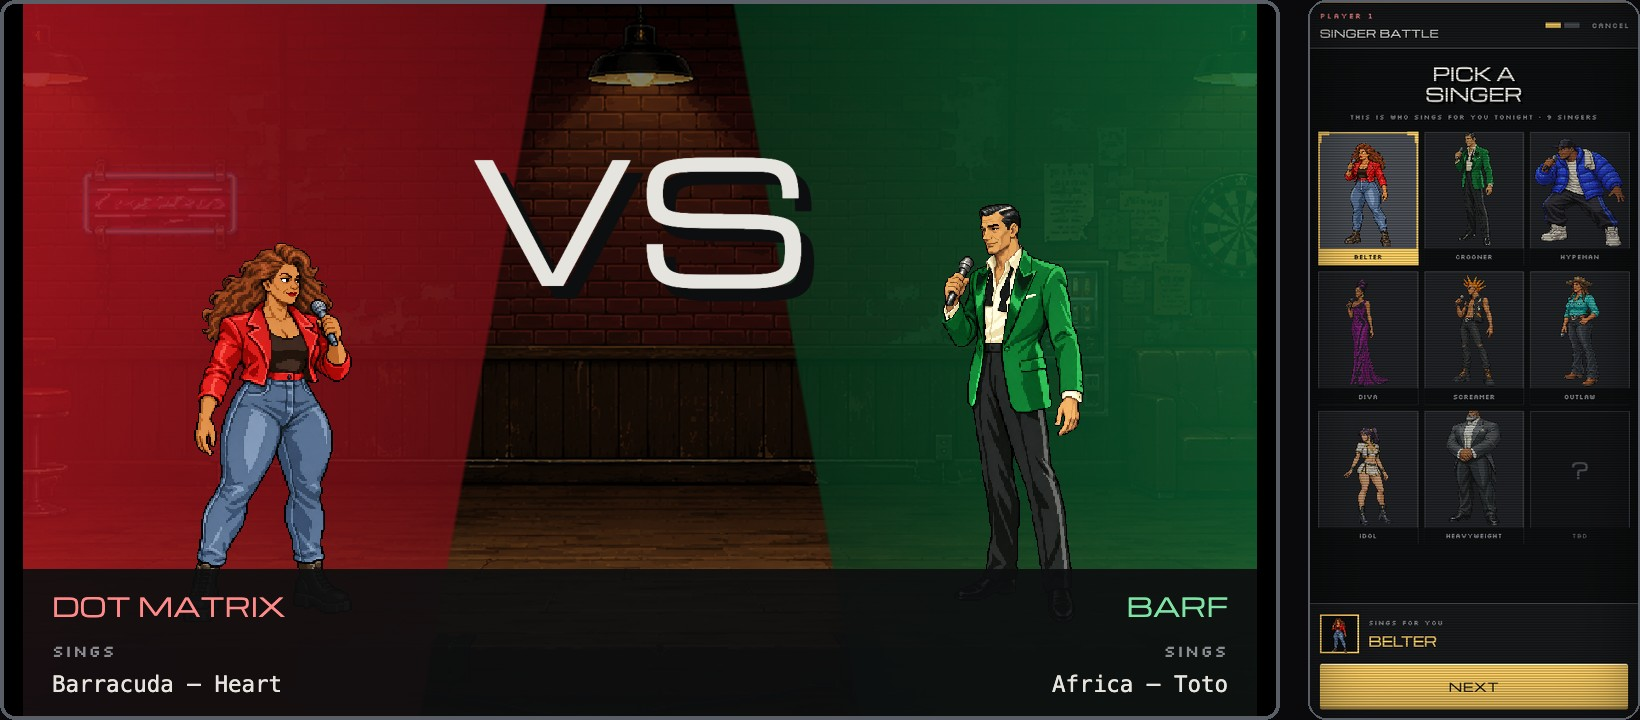
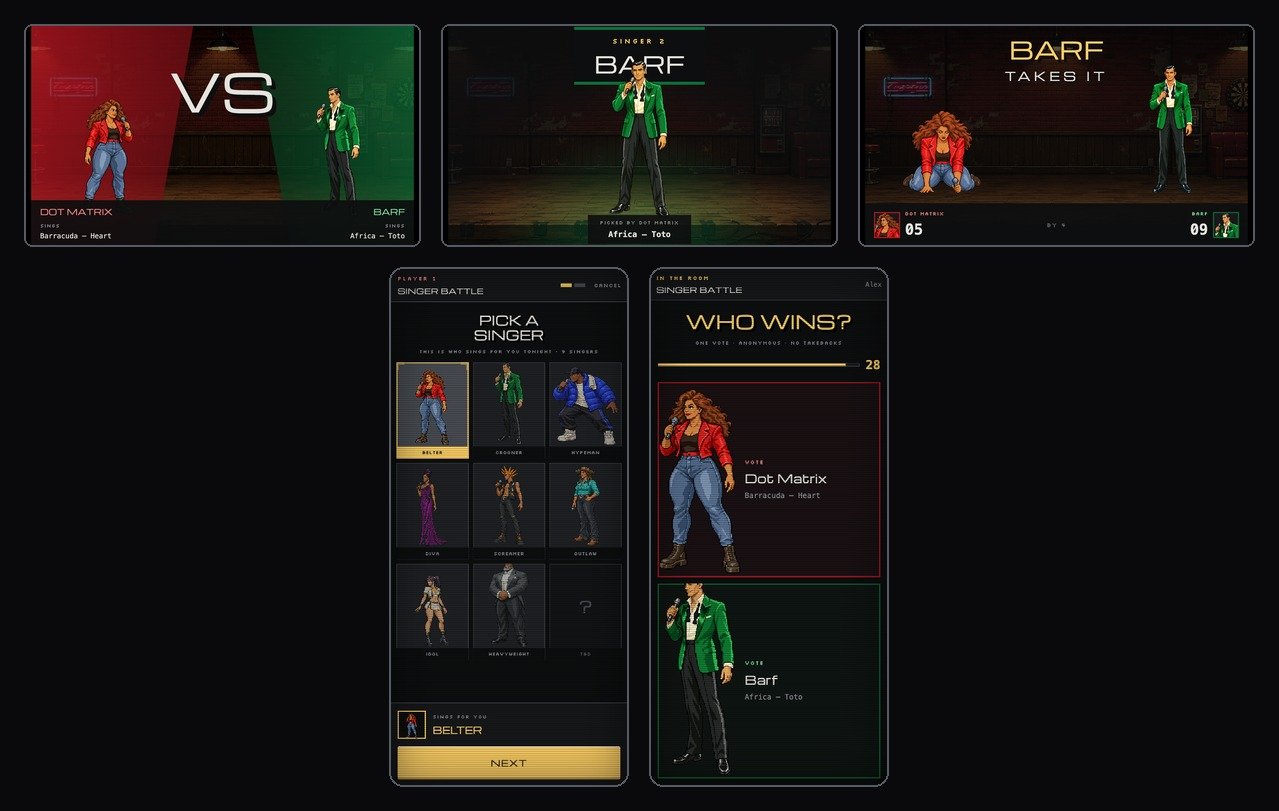
docs(readme): a screenshot set per kind of turn, and key change in the table
The front page carried one composite of the karaoke app and nothing else, so
two of the three kinds of turn were described but never shown.

Each section now has its own set, shot off the real screens. Karaoke is the
four phone screens a guest actually uses — library, queue, the Me tab, the
account page with its history. Trivia is the question and the final board, on
the TV and on a phone. Singer Battle is the VS slam, an intro and the verdict
across the top, with the fighter select and the room's ballot under it.

The karaoke set has no TV frame. Everyone knows what a lyric screen looks
like, and the one screen this page does not need to spend space on is the one
every karaoke product on earth already shows.

Change key is in the comparison table now, as a difference rather than a row
of matching ticks: ±6 semitones without touching tempo, remembered per singer,
and it arrived in this fork rather than upstream.

Three harness changes behind the art. A trivia scene for the final scoreboard,
on the TV and on the phone, since a round ends on the board rather than on a
question. The ballot scene's two fighters are somebody other than the signed-in
viewer — fighters get no ballot, so shooting it while signed in as the
challenger produced an empty screen. And .claude/launch.json's dev-test entry
resolves its data path relative rather than through $PWD, which is empty in
the environment the preview server starts in and sent it looking for
/.test-data.

diff --git a/src/components/App/Routes/Preview.tsx b/src/components/App/Routes/Preview.tsx
@@ -7,9 +7,9 @@ import PlayerBattle from 'routes/Player/components/PlayerBattle/PlayerBattle'
 import PlayerTrivia from 'routes/Player/components/PlayerTrivia/PlayerTrivia'
 import * as battleFixtures from 'lib/battleFixtures'
 import * as triviaFixtures from 'lib/triviaFixtures'
-import type { BattlePhase, BattleTurn } from 'shared/types'
+import type { BattlePhase, BattleTurn, TriviaRound } from 'shared/types'
 
-const round = () => triviaFixtures.triviaRound({
+const round = (over: Partial<TriviaRound> = {}) => triviaFixtures.triviaRound({
   questionNumber: 3,
   questionCount: 5,
   question: 'Which band released the album "Rumours" in 1977?',
@@ -17,6 +17,7 @@ const round = () => triviaFixtures.triviaRound({
   difficulty: 'easy',
   endsAt: Date.now() + 14000,
   sentAt: Date.now(),
+  ...over,
 })
 
 const result = () => triviaFixtures.triviaResult({
@@ -31,6 +32,26 @@ const result = () => triviaFixtures.triviaResult({
   ],
   scoresFrom: Date.now() - 1000,
   endsAt: Date.now() + 4000,
+  sentAt: Date.now(),
+})
+
+/** The last beat of a round: five of five answered, the board up. `boardFrom`
+ *  in the past is what moves the screen off the reveal and onto the standings. */
+const finalResult = () => triviaFixtures.triviaResult({
+  questionNumber: 5,
+  isFinal: true,
+  correctIdx: 0,
+  numCorrect: 3,
+  scores: [
+    { userId: 1, name: 'Dot Matrix', score: 5, numAnswered: 5 },
+    { userId: 2, name: 'Barf', score: 4, numAnswered: 5 },
+    { userId: 3, name: 'Vespa', score: 3, numAnswered: 5 },
+    { userId: 4, name: 'Lone Starr', score: 2, numAnswered: 4 },
+    { userId: 5, name: 'Princess Vespa', score: 1, numAnswered: 3 },
+  ],
+  scoresFrom: Date.now() - 4000,
+  boardFrom: Date.now() - 2000,
+  endsAt: Date.now() + 8000,
   sentAt: Date.now(),
 })
 
@@ -53,6 +74,9 @@ const Preview = ({ scene }: { scene: string }) => {
     } else if (scene === 'trivia-phone-reveal') {
       dispatch({ type: 'trivia/ROUND', payload: round() })
       dispatch({ type: 'trivia/RESULT', payload: result() })
+    } else if (scene === 'trivia-phone-board') {
+      dispatch({ type: 'trivia/ROUND', payload: round({ questionNumber: 5 }) })
+      dispatch({ type: 'trivia/RESULT', payload: finalResult() })
     } else if (scene === 'battle-versus') {
       dispatch({ type: 'battle/TURN', payload: turn('versus') })
     } else if (scene === 'battle-ballot') {
@@ -60,7 +84,13 @@ const Preview = ({ scene }: { scene: string }) => {
       // and only when the turn says the room settles fights by ballot — the
       // fixture default is 'crowd', which is graded by the player's own
       // microphone and puts no ballot on a phone at all.
-      dispatch({ type: 'battle/TURN', payload: turn('judge', { judging: 'ballot' }) })
+      // The fighters get no ballot — they are holding a microphone. So this
+      // scene's two of them are somebody other than whoever is signed in on
+      // the phone taking the screenshot.
+      dispatch({
+        type: 'battle/TURN',
+        payload: turn('judge', { judging: 'ballot', challengerUserId: 101, opponentUserId: 102 }),
+      })
     } else if (scene === 'battle-winner') {
       dispatch({
         type: 'battle/TURN',
@@ -102,6 +132,19 @@ const Preview = ({ scene }: { scene: string }) => {
     return (
       <div style={{ position: 'fixed', inset: 0, background: '#000', zIndex: 9999 }}>
         <PlayerTrivia round={round()} result={result()} width={w} height={h} />
+      </div>
+    )
+  }
+
+  if (scene === 'trivia-tv-board') {
+    return (
+      <div style={{ position: 'fixed', inset: 0, background: '#000', zIndex: 9999 }}>
+        <PlayerTrivia
+          round={round({ questionNumber: 5 })}
+          result={finalResult()}
+          width={w}
+          height={h}
+        />
       </div>
     )
   }

diff --git a/README.md b/README.md
@@ -4,12 +4,6 @@
 
 KaraokeParty runs the whole night from a browser. Guests scan a QR code, search your library, queue a song and watch their place in line from the couch. You self-host it on a laptop, a Mac mini, a Raspberry Pi or a NAS — no accounts to make, no subscription, no ads, nothing phoning home.
 
-[![KaraokeParty](/docs/assets/images/README.jpg?raw=true)](/docs/assets/images/README.jpg?raw=true)
-
-<p align="center">
-  <i>The app in a phone browser (top) driving the player on the TV (bottom)</i>
-</p>
-
 ## One queue, three kinds of turn
 
 There is one rotation and everything takes its turn in it. A trivia round and a singer battle sit in the queue exactly like a song does — they come round when they come round, and each costs a turn.
@@ -17,6 +11,8 @@ There is one rotation and everything takes its turn in it. A trivia round and a 
 ### 🎤 Karaoke
 
 The part everybody came for. MP3+G, MP4 and a music-synced visualizer, a round-robin queue that stays fair as people arrive, and singers who can manage their own spot without asking the host for anything.
+
+[![Karaoke on a phone](/docs/assets/images/karaoke.jpg?raw=true)](/docs/assets/images/karaoke.jpg?raw=true)
 
 - **Queue from the couch.** Search by artist or song, star the ones you want later, tap once to get in line.
 - **Know when you're up.** A strip at the top of every screen counts down to your turn.
@@ -29,7 +25,7 @@ The part everybody came for. MP3+G, MP4 and a music-synced visualizer, a round-r
 
 Music trivia that takes the gap between two singers, so the room has something to do — and the guests who would rather not sing get a way to play.
 
-[![Trivia](/docs/assets/images/trivia.png?raw=true)](/docs/assets/images/trivia.png?raw=true)
+[![Trivia](/docs/assets/images/trivia.jpg?raw=true)](/docs/assets/images/trivia.jpg?raw=true)
 
 - A round waits in the queue like a singer does, and comes up about once per lap.
 - **Five questions**, big on the TV, four colored keys on every phone in the room.
@@ -47,8 +43,6 @@ One turn, two singers, and each of them picks the other's song. It runs on the T
 - **Throw a challenge.** Pick somebody in the room, then pick the song *they* have to sing. Their phone gets 45 seconds to accept — and the song they pick back is the one *you* sing. Neither of you sees the other's choice until it's on screen.
 - **Two minutes each**, so a whole battle is about five minutes of the night and costs one place in the queue, not two.
 - **The room decides.** Everybody votes on their own phone — one vote each, anonymous, and nobody sees the count until the verdict. (Prefer it loud? A player running on the machine with the mic can score it on crowd noise instead.)
-
-[![Singer Battle verdict](/docs/assets/images/singer-battle-verdict.jpg?raw=true)](/docs/assets/images/singer-battle-verdict.jpg?raw=true)
 
 Trivia and battles are off until a host turns them on for a room, so a night that is only songs is only songs.
 
@@ -78,7 +72,7 @@ KaraokeParty is a fork of [Karaoke Eternal](https://github.com/bhj/KaraokeEterna
 | **Music trivia rounds** | ✅ Built in, takes its own turn | ❌ |
 | **Head-to-head singer battles** | ✅ Built in, with fighters and a room vote | ❌ |
 | **What you've sung** | ✅ Kept per singer, across parties | ❌ |
-| **Sing in your own key** | ✅ ±6 semitones | ✅ |
+| **Change key** | ✅ ±6 semitones, same tempo, remembered next time you queue it | ❌ |
 | **Look and feel** | DECK — dark, mixing-desk | The original Karaoke Eternal UI |
 | **Self-hosted, ad-free, no telemetry** | ✅ | ✅ |
 
